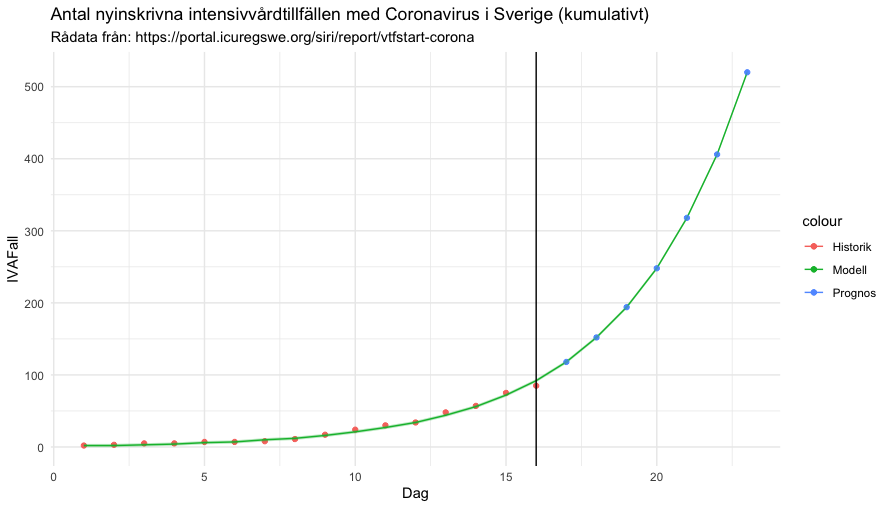
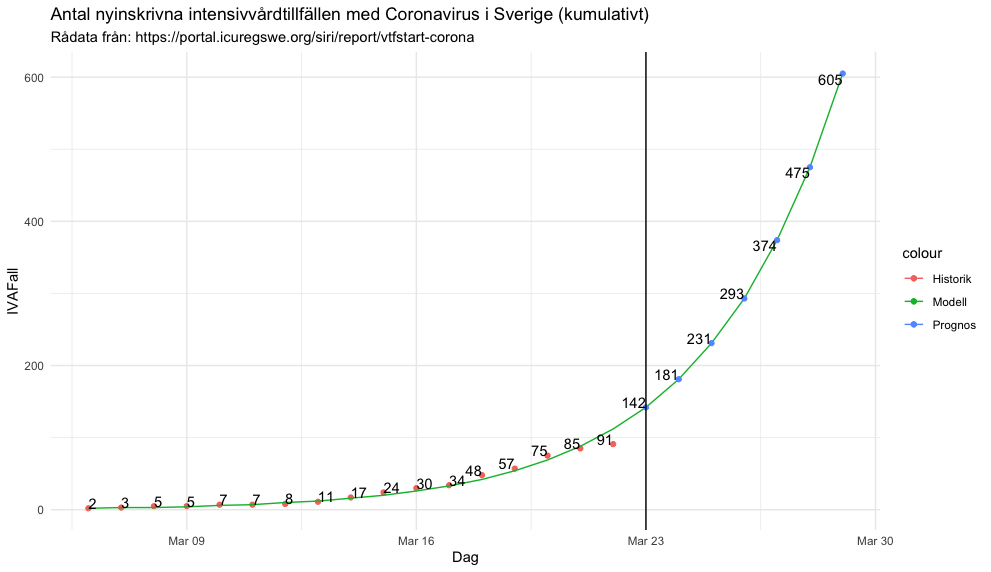
Add 2020-03-23 data

diff --git a/README.md b/README.md
@@ -13,18 +13,18 @@ Call:
 lm(formula = log2(IVAFall) ~ Dag, data = data)
 
 Residuals:
-     Min       1Q   Median       3Q      Max 
--0.34424 -0.14229  0.02434  0.11918  0.39733 
+    Min      1Q  Median      3Q     Max 
+-0.3367 -0.1820  0.0273  0.1642  0.3746 
 
 Coefficients:
             Estimate Std. Error t value Pr(>|t|)    
-(Intercept)  0.85986    0.10200    8.43 7.41e-07 ***
-Dag          0.35491    0.01055   33.65 8.55e-15 ***
+(Intercept)  0.90522    0.10530   8.597 3.51e-07 ***
+Dag          0.34735    0.01028  33.802 1.42e-15 ***
 ---
 Signif. codes:  0 ‘***’ 0.001 ‘**’ 0.01 ‘*’ 0.05 ‘.’ 0.1 ‘ ’ 1
 
-Residual standard error: 0.1945 on 14 degrees of freedom
-Multiple R-squared:  0.9878,	Adjusted R-squared:  0.9869 
-F-statistic:  1132 on 1 and 14 DF,  p-value: 8.549e-15
+Residual standard error: 0.2076 on 15 degrees of freedom
+Multiple R-squared:  0.987,	Adjusted R-squared:  0.9862 
+F-statistic:  1143 on 1 and 15 DF,  p-value: 1.423e-15
 ```
 
